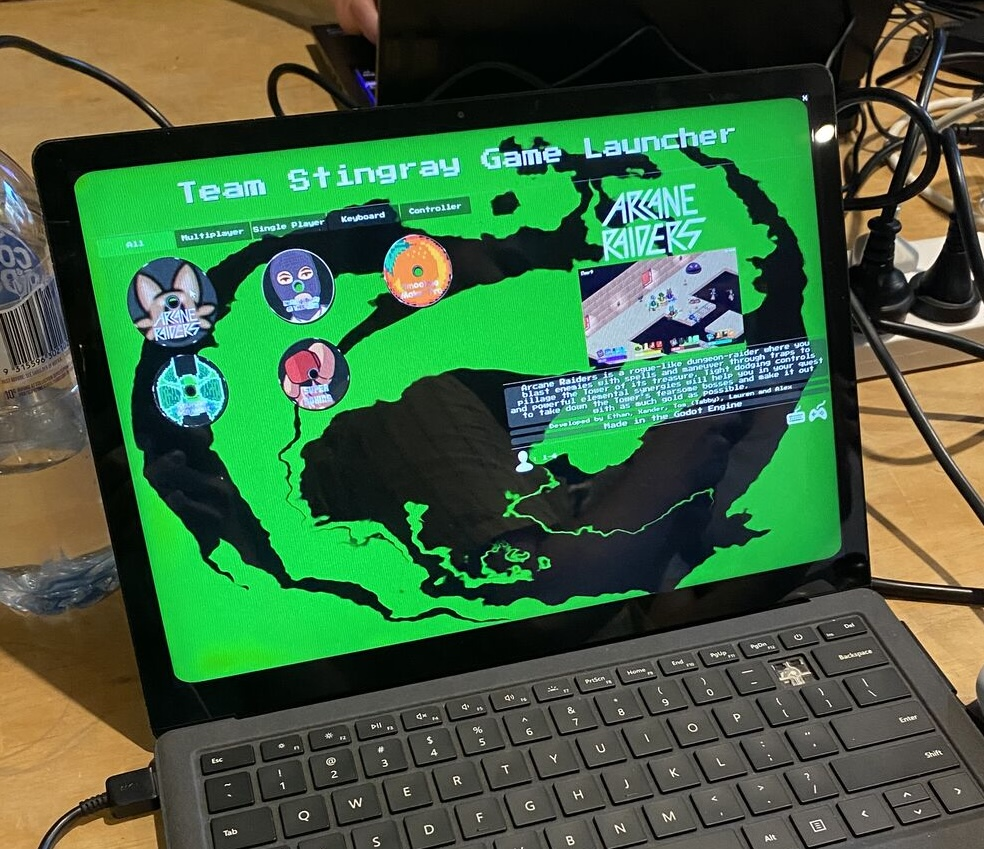
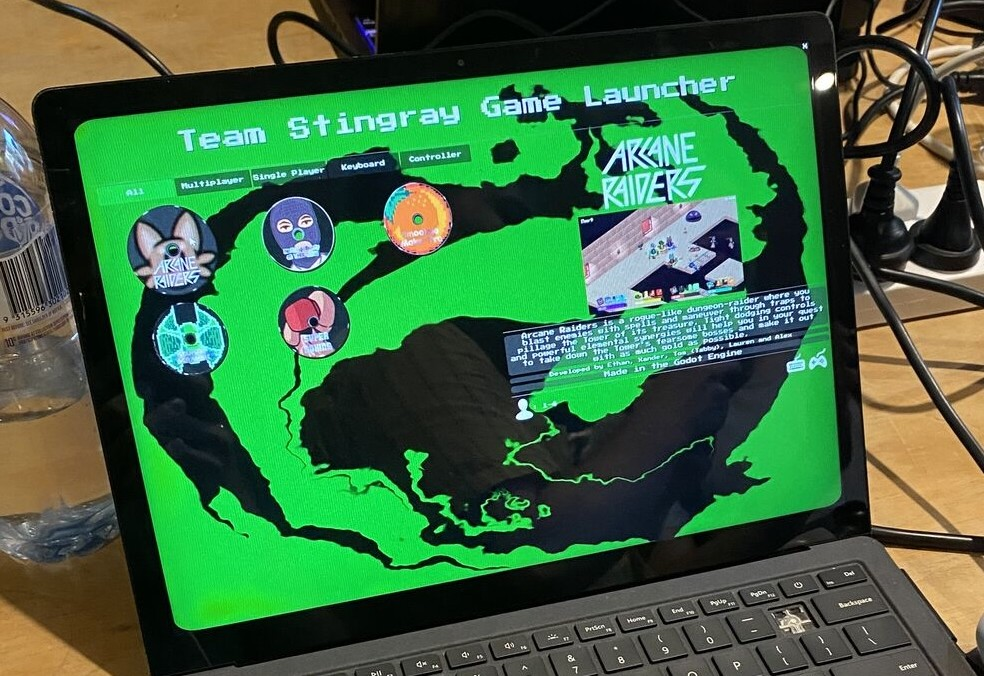
adding projects

diff --git a/projects.html b/projects.html
@@ -490,6 +490,83 @@
           <div class="row g-0">
             <div class="col-md-6">
               <div class="text-white p-4">
+                <h2 class="fw-bold text-white mb-3">Live Game - Twister</h2>
+                <p class="mb-4">
+                  I created and facilitated a recreation of the Twister board
+                  game. This involved the creation of a virtual spinner that
+                  could intuitively be used.
+                </p>
+              </div>
+            </div>
+            <div
+              class="col-md-6 order-first order-md-last"
+              style="min-height: 250px"
+            >
+              <img class="w-100 h-100 fit-cover" src="assets/img/twister.jpg" />
+            </div>
+          </div>
+        </div>
+      </div>
+    </section>
+    <hr
+      style="
+        color: var(--bs-white);
+        margin-left: auto;
+        margin-right: auto;
+        width: 90%;
+      "
+    />
+    <section data-aos="fade-right" data-aos-once="true" id="twofeet">
+      <div class="container" style="height: auto">
+        <div
+          class="bg-dark border rounded border-0 border-dark overflow-hidden"
+          style="height: auto"
+        >
+          <div class="row g-0">
+            <div class="col-md-6">
+              <img
+                class="w-100 h-100 fit-cover"
+                src="assets/img/1746658606950.jpg"
+              />
+            </div>
+            <div
+              class="col-md-6 order-first order-md-last"
+              style="min-height: 250px; height: auto"
+            >
+              <div class="text-white p-4">
+                <h2 class="fw-bold text-white mb-3">Live Game - Jeopardy</h2>
+                <p class="mb-4">
+                  A complete recreation of the famous Jeopardy game show in the
+                  Godot game engine. It can be entirely controlled by the host,
+                  and includes for the creation of an entire game's questions
+                  within the application.
+                  <br /><br />
+                  The program has been played for multiple yotuh-age audience
+                  and additional in-person events.
+                </p>
+              </div>
+            </div>
+          </div>
+        </div>
+      </div>
+    </section>
+    <hr
+      style="
+        color: var(--bs-white);
+        margin-left: auto;
+        margin-right: auto;
+        width: 90%;
+      "
+    />
+    <section data-aos="fade-left" data-aos-once="true" id="starshipscramble-4">
+      <div class="container" style="height: auto">
+        <div
+          class="bg-dark border rounded border-0 border-dark overflow-hidden"
+          style="height: auto"
+        >
+          <div class="row g-0">
+            <div class="col-md-6">
+              <div class="text-white p-4">
                 <h2 class="fw-bold text-white mb-3">
                   Godot - Custom Game Launcher
                 </h2>
@@ -503,17 +580,12 @@
             </div>
             <div
               class="col-md-6 order-first order-md-last"
-              style="min-height: 250px; height: auto"
+              style="min-height: 250px"
             >
-              <div class="video-container" style="height: 100%">
-                <iframe
-                  allowfullscreen=""
-                  frameborder="0"
-                  src="https://www.youtube.com/embed/p9GreMtqOoY"
-                  width="560"
-                  height="315"
-                ></iframe>
-              </div>
+              <img
+                class="w-100 h-100 fit-cover"
+                src="assets/img/1739408779601.jpeg"
+              />
             </div>
           </div>
         </div>
